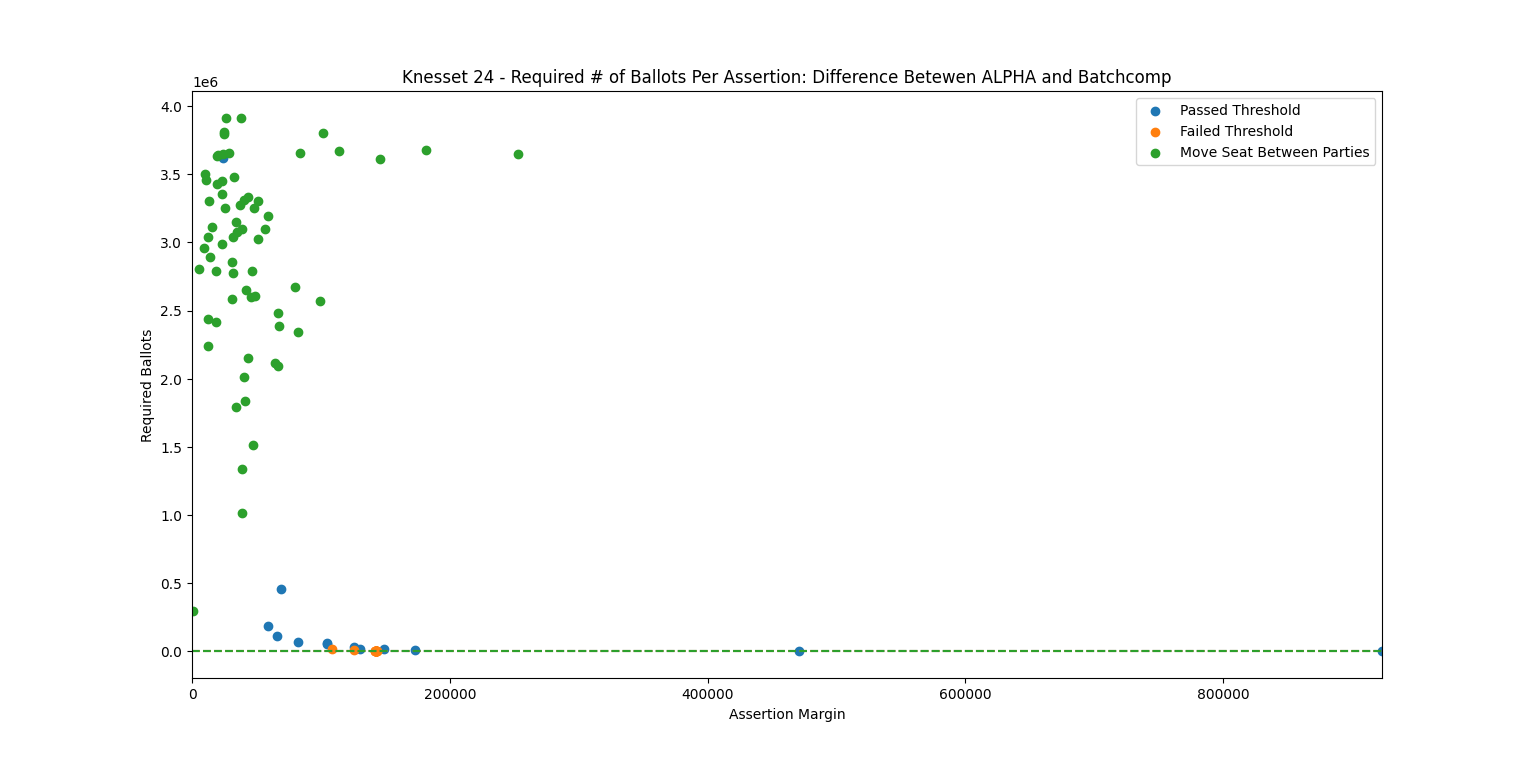
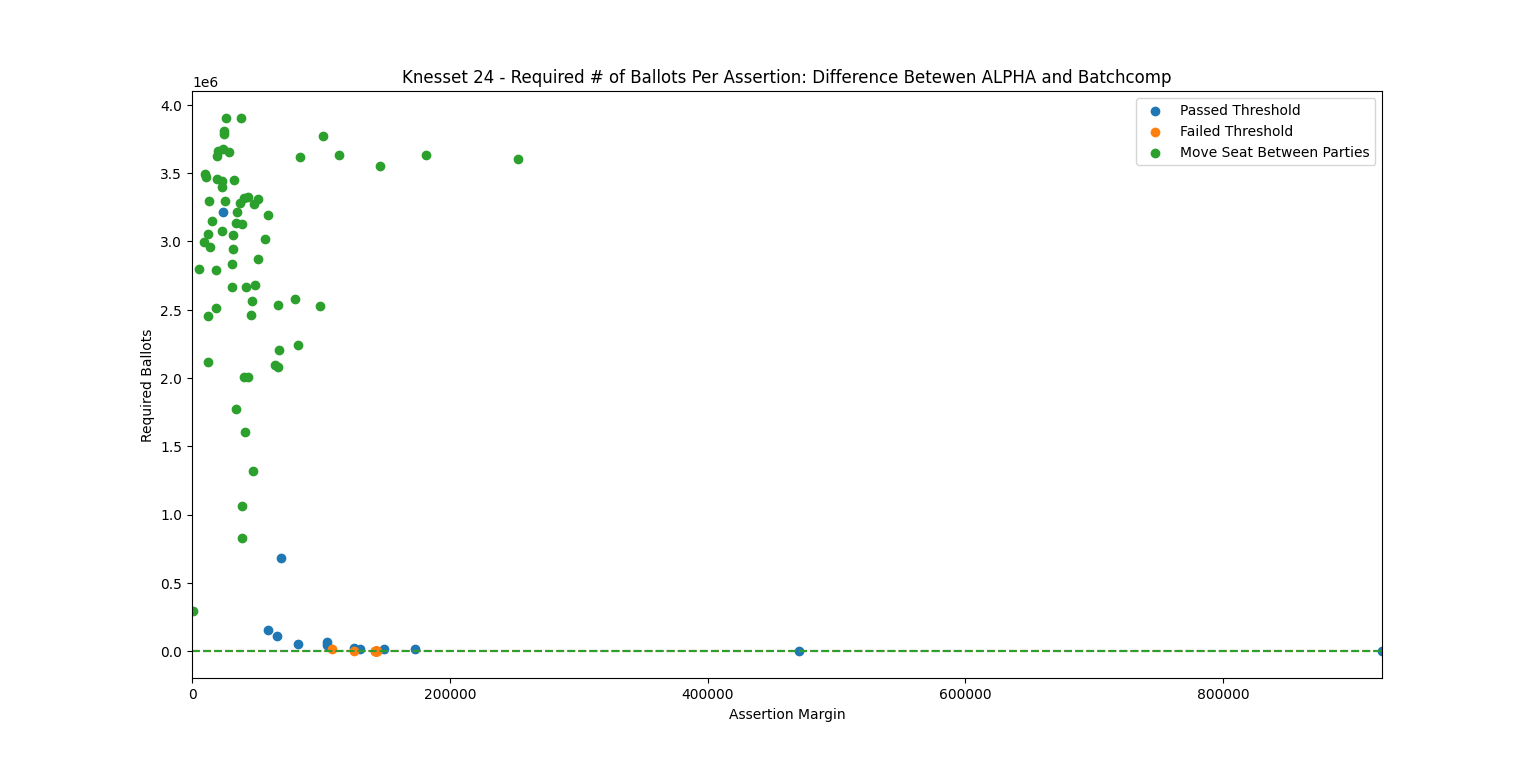
Plot fixes + results

diff --git a/Plotter.py b/Plotter.py
@@ -2,6 +2,8 @@ from Auditor import Auditor
 from Assorter import Assorter
 import matplotlib.pyplot as plt
 import numpy as np
+import time, os, fnmatch, shutil
+
 
 ASSERTION_LABELS = ['Passed Threshold', 'Failed Threshold', 'Move Seat Between Parties']
 
@@ -69,6 +71,69 @@ def assertions_comparison_plots(alpha_assertions_list, batchcomp_assertions_list
     plt.xlim((-total_voters / 10**5, max_margin + total_voters / 10**5))
     plt.legend()
     plt.title("Knesset " + str(knesset_num) + ' - Required # of Ballots Per Assertion: Difference Betewen ALPHA and Batchcomp')
+    plt.xlabel("Assertion Margin")
+    plt.ylabel("Required Ballots")
+    plt.show()
+
+    timestamp = time.strftime('%b-%d-%Y_%H%M', time.localtime())
+    save_filename = "Knesset " + str(knesset_num) + ' data matrix - ' + timestamp
+    np.save(save_filename, assertion_data_mat)
+
+
+def assertions_with_error_plots(assertions_list, noised_assertions_list, total_voters, knesset_num):
+    assertion_data = dict()  # Contains lists of required ballots using ALPHA / batchcomp and the assertion's margin
+
+    # Create dictionary of assertions that holds the # of audited ballots for each method
+    for assertions in assertions_list:
+        for i, assertion in enumerate(assertions):
+            if assertion.type == 1 or assertion.type == 2:
+                name = (assertion.party, '-')
+            else:
+                name = (assertion.party_from, assertion.party_to)
+            if name not in assertion_data:
+                assertion_data[name] = [0]*4
+                assertion_data[name][ASSERTION_TYPE_IND] = assertion.type
+                assertion_data[name][MARGIN_IND] = assertion.vote_margin
+            assertion_data[name][ALPHA_REQ_BALLOTS_IND] += assertion.ballots_counter
+
+    for assertions in noised_assertions_list:
+        for assertion in assertions:
+            if assertion.type == 1 or assertion.type == 2:
+                name = (assertion.party, '-')
+            else:
+                name = (assertion.party_from, assertion.party_to)
+            assertion_data[name][BATCHCOMP_REQ_BALLOTS_IND] += assertion.ballots_counter
+
+    assertion_data_mat = np.array(list(assertion_data.values()))
+    assertion_data_mat[:, [ALPHA_REQ_BALLOTS_IND, BATCHCOMP_REQ_BALLOTS_IND]] /= len(assertions_list)  # Average over all repetitions
+    max_margin = max(assertion_data_mat[:, MARGIN_IND])
+
+    # Plot comparison
+    fig, axs = plt.subplots(2, 1, sharex=True, sharey=True)
+    for i, lab in enumerate(ASSERTION_LABELS):
+        slicer = np.where(assertion_data_mat[:, ASSERTION_TYPE_IND] == i + 1)
+        axs[0].scatter(assertion_data_mat[slicer, MARGIN_IND], assertion_data_mat[slicer, ALPHA_REQ_BALLOTS_IND], label=lab)
+        axs[1].scatter(assertion_data_mat[slicer, MARGIN_IND], assertion_data_mat[slicer, BATCHCOMP_REQ_BALLOTS_IND], label=lab)
+    axs[0].plot([0, max_margin], [total_voters, total_voters], '--', label='Total Voters')
+    axs[1].plot([0, max_margin], [total_voters, total_voters], '--', label='Total Voters')
+    axs[0].set_xlim((0, max_margin + total_voters / 10**5))
+    axs[0].legend()
+    fig.suptitle("Knesset " + str(knesset_num) + ' - Required # of Ballots vs. Assorter Margin')
+    axs[0].set_title("Without Counting Errors")
+    axs[1].set_title("With p=0.01 Probability of Counting Error")
+    fig.supxlabel("Assertion Margin")
+    fig.supylabel("Required Ballots")
+    plt.show()
+
+    # Plot Difference
+    diff = assertion_data_mat[:, ALPHA_REQ_BALLOTS_IND] - assertion_data_mat[:, BATCHCOMP_REQ_BALLOTS_IND]
+    for i, lab in enumerate(ASSERTION_LABELS):
+        slicer = np.where(assertion_data_mat[:, ASSERTION_TYPE_IND] == i + 1)
+        plt.scatter(assertion_data_mat[slicer, MARGIN_IND], diff[slicer], label=lab)
+        plt.plot([0, max_margin], [0, 0], '--')
+    plt.xlim((-total_voters / 10**5, max_margin + total_voters / 10**5))
+    plt.legend()
+    plt.title("Knesset " + str(knesset_num) + ' - Required # of Ballots Per Assertion: Added Overhead From Counting Errors')
     plt.xlabel("Assertion Margin")
     plt.ylabel("Required Ballots")
     plt.show()

diff --git a/ElectionProfile.py b/ElectionProfile.py
@@ -12,7 +12,7 @@ EPSILON = 10**(-9)  # Min difference between eta and mu
 
 class ElectionProfile:
 
-    def __init__(self, xls_file, threshold, seats, apparentments, shuffle_true_tallies=False, redraw_tallies=False):
+    def __init__(self, xls_file, threshold, seats, apparentments, noise=False, shuffle_true_tallies=False, redraw_tallies=False):
         """
         Creates an election profile from a result xls (formatted as in the gov's website)
         :param xls_file: Path to the file which contains the election results.
@@ -42,9 +42,16 @@ class ElectionProfile:
                     if redraw_tallies:
                         true_tally, true_invalid_votes = self.redraw_tally(tally, invalid_votes)
                         rep_tally, rep_invalid_votes = self.redraw_tally(tally, invalid_votes)
+                        if noise:
+                            true_tally, true_invalid_votes = self.add_noise(tally, invalid_votes)
+                        else:
+                            true_tally, true_invalid_votes = tally, invalid_votes
                         batch = Batch(i, rep_tally, true_tally, rep_invalid_votes, true_invalid_votes, apparentments)
                     else:
-                        true_tally, true_invalid_votes = self.add_noise(tally, invalid_votes)
+                        if noise:
+                            true_tally, true_invalid_votes = self.add_noise(tally, invalid_votes)
+                        else:
+                            true_tally, true_invalid_votes = tally, invalid_votes
                         batch = Batch(i, tally, true_tally, invalid_votes, true_invalid_votes, apparentments)
                     self.batches.append(batch)
                     self.tot_batch += batch
@@ -76,16 +83,14 @@ class ElectionProfile:
                                sum(self.batches[i].reported_tally.values()) + self.batches[i].reported_invalid_votes
                         self.batches[i].total_votes = sum(self.batches[i].reported_tally.values()) + self.batches[i].reported_invalid_votes
                         self.tot_batch += self.batches[i]
-                #print(self.tot_batch)
                 self.reported_seats_won, self.reported_paired_seats_won = \
                     self.calculate_reported_results(self.tot_batch.reported_tally, self.tot_batch.reported_paired_tally)
                 self.true_seats_won, true_paired_seats_won = self.calculate_reported_results(self.tot_batch.true_tally, self.tot_batch.true_paired_tally)  # TODO remove self.
                 reported_matches_truth = np.all(np.fromiter(self.reported_seats_won.values(), dtype=int) ==
                                                  np.fromiter(self.true_seats_won.values(), dtype=int))
-                print("Elections Tallies Loaded")
-                reported_matches_truth = True
-            #print(self.reported_results)
-            #print(sum(self.reported_results.values()))
+        print("Elections Tallies Loaded")
+        #print(self.reported_results)
+        #print(sum(self.reported_results.values()))
 
     """
     def __init__(self, reported_tally, true_ballots, reported_invalid_votes=0, true_invalid_votes=0):
@@ -152,7 +157,7 @@ class ElectionProfile:
                 seats_won[key] = paired_seats_won[key]
         return seats_won, paired_seats_won
 
-    def add_noise(self, tally, invalid_votes, error_ratio=0.0, invalidation_rate=0.0, invalid_to_valid_ratio=0.0):
+    def add_noise(self, tally, invalid_votes, error_ratio=0.008, invalidation_rate=0.002, invalid_to_valid_ratio=0.01):
         """
         Adds error to a tally
         :param tally: Vote tally

diff --git a/Main.py b/Main.py
@@ -7,7 +7,7 @@ import Plotter
 from tqdm import tqdm
 
 # Constants
-KNESSET_NUM = 25
+KNESSET_NUM = 23
 APPARENTMENTS = dict()
 APPARENTMENTS[25] = [("Hamahane Hamamlahti", "Yesh Atid"), ("Likud", "Tziyonut Detit"), ("Shas", "Yahadut Hatora")] # ("Balad", "Hadash Taal"), ("Yisrael Beytenu", "Raam")
 APPARENTMENTS[24] = [("Avoda", "Meretz"), ("Yemina", "Tikva Hadasha"), ("Yesh Atid", "Yisrael Beytenu"), ("Likud", "Tziyonut Detit"), ("Shas", "Yahadut Hatora")]
@@ -53,6 +53,23 @@ def make_comp_plot(profile, knesset_num, reps=10, alpha=ALPHA, threshold=THRESHO
         batchcomp_assertions_list.append(batchcomp_assertions)
 
     Plotter.assertions_comparison_plots(alpha_assertions_list, batchcomp_assertions_list, profile.tot_batch.total_votes, knesset_num)
+
+def make_error_plot(knesset_num, reps=10, alpha=ALPHA, threshold=THRESHOLD):
+    noised_assertions_list = []
+    unnoised_assertions_list = []
+    unnoised_profile = ElectionProfile('Results ' + str(knesset_i) + '.csv', THRESHOLD, SEATS, APPARENTMENTS[knesset_i])
+    for rep in range(reps):
+        noised_profile = ElectionProfile('Results ' + str(knesset_i) + '.csv', THRESHOLD, SEATS, APPARENTMENTS[knesset_i], noise=True)
+        noised_auditor = Auditor(noised_profile, alpha, threshold)
+        unnoised_auditor = Auditor(unnoised_profile, alpha, threshold)
+
+        noised_audit_approves, noised_assertions = noised_auditor.batch_audit()
+        unnoised_audit_approves, unnoised_assertions = unnoised_auditor.batch_audit()
+        assert unnoised_audit_approves and noised_audit_approves
+        unnoised_assertions_list.append(unnoised_assertions)
+        noised_assertions_list.append(noised_assertions)
+
+    Plotter.assertions_with_error_plots(unnoised_assertions_list, noised_assertions_list, unnoised_profile.tot_batch.total_votes, knesset_num)
 
 
 def make_prediction_plots(profiles, reps=10, alpha=ALPHA, threshold=THRESHOLD):
@@ -111,11 +128,11 @@ def old_plot(profile, reps=1):
 
 if __name__ == "__main__":
     election_profiles = []
-    prof = ElectionProfile(RESULTS_FILE, THRESHOLD, SEATS, APPARENTMENTS[KNESSET_NUM], shuffle_true_tallies=False, redraw_tallies=False)
+    prof = ElectionProfile(RESULTS_FILE, THRESHOLD, SEATS, APPARENTMENTS[KNESSET_NUM])
 
     for knesset_i in [22, 23, 24, 25]:
-        prof = ElectionProfile('Results ' + str(knesset_i) + '.csv', THRESHOLD, SEATS, APPARENTMENTS[knesset_i], shuffle_true_tallies=False,
-                              redraw_tallies=False)
+        prof = ElectionProfile('Results ' + str(knesset_i) + '.csv', THRESHOLD, SEATS, APPARENTMENTS[knesset_i])
+        #make_error_plot(knesset_i)
         make_comp_plot(prof, knesset_i)
         election_profiles.append(prof)
     make_prediction_plots(election_profiles)

diff --git a/MoveSeatAssertion.py b/MoveSeatAssertion.py
@@ -79,6 +79,10 @@ class MoveSeatAssertion(Assorter):
         else:
             assorter_value = 0.5
 
+        if self.u - self.mu == 0 or self.mu == 0:
+            print('PROBLEMO: ZERO DIVISION INCOMING')
+            print('mu ', self.mu)
+            print('u', self.u)
         self.T *= (1 / self.u)*(assorter_value * self.eta.value / self.mu + \
                   (self.u - assorter_value)*(self.u - self.eta.value)/(self.u - self.mu))
         self.update_mu_and_u(1, assorter_value)
@@ -94,7 +98,7 @@ class MoveSeatAssertion(Assorter):
 
         if self.mu < 0:
             self.T = float('inf')
-        elif self.mu > self.u:
+        elif self.mu >= self.u:
             self.T = 0
 
         # Debugging stuff

diff --git a/Assorter.py b/Assorter.py
@@ -59,7 +59,7 @@ class Assorter(ABC):
 
         if self.mu < 0:
             self.T = float('inf')
-        if self.mu > self.u:
+        if self.mu >= self.u:
             self.T = 0
 
         return self.T >= (1 / self.alpha), self.T
@@ -73,7 +73,7 @@ class Assorter(ABC):
         else:
             self.mu = (self.total_ballots*0.5 - self.assorter_total) / (self.total_ballots - self.ballots_counter)
             self.mu = max(self.mu, 0)
-            self.u = max(self.u, self.mu + 2*EPSILON)  # I switched this line with the previous but it shouldn't effect anything
+            self.u = max(self.u, self.mu + 2*EPSILON)
         self.eta.u = self.u
 
     def get_margin(self):
